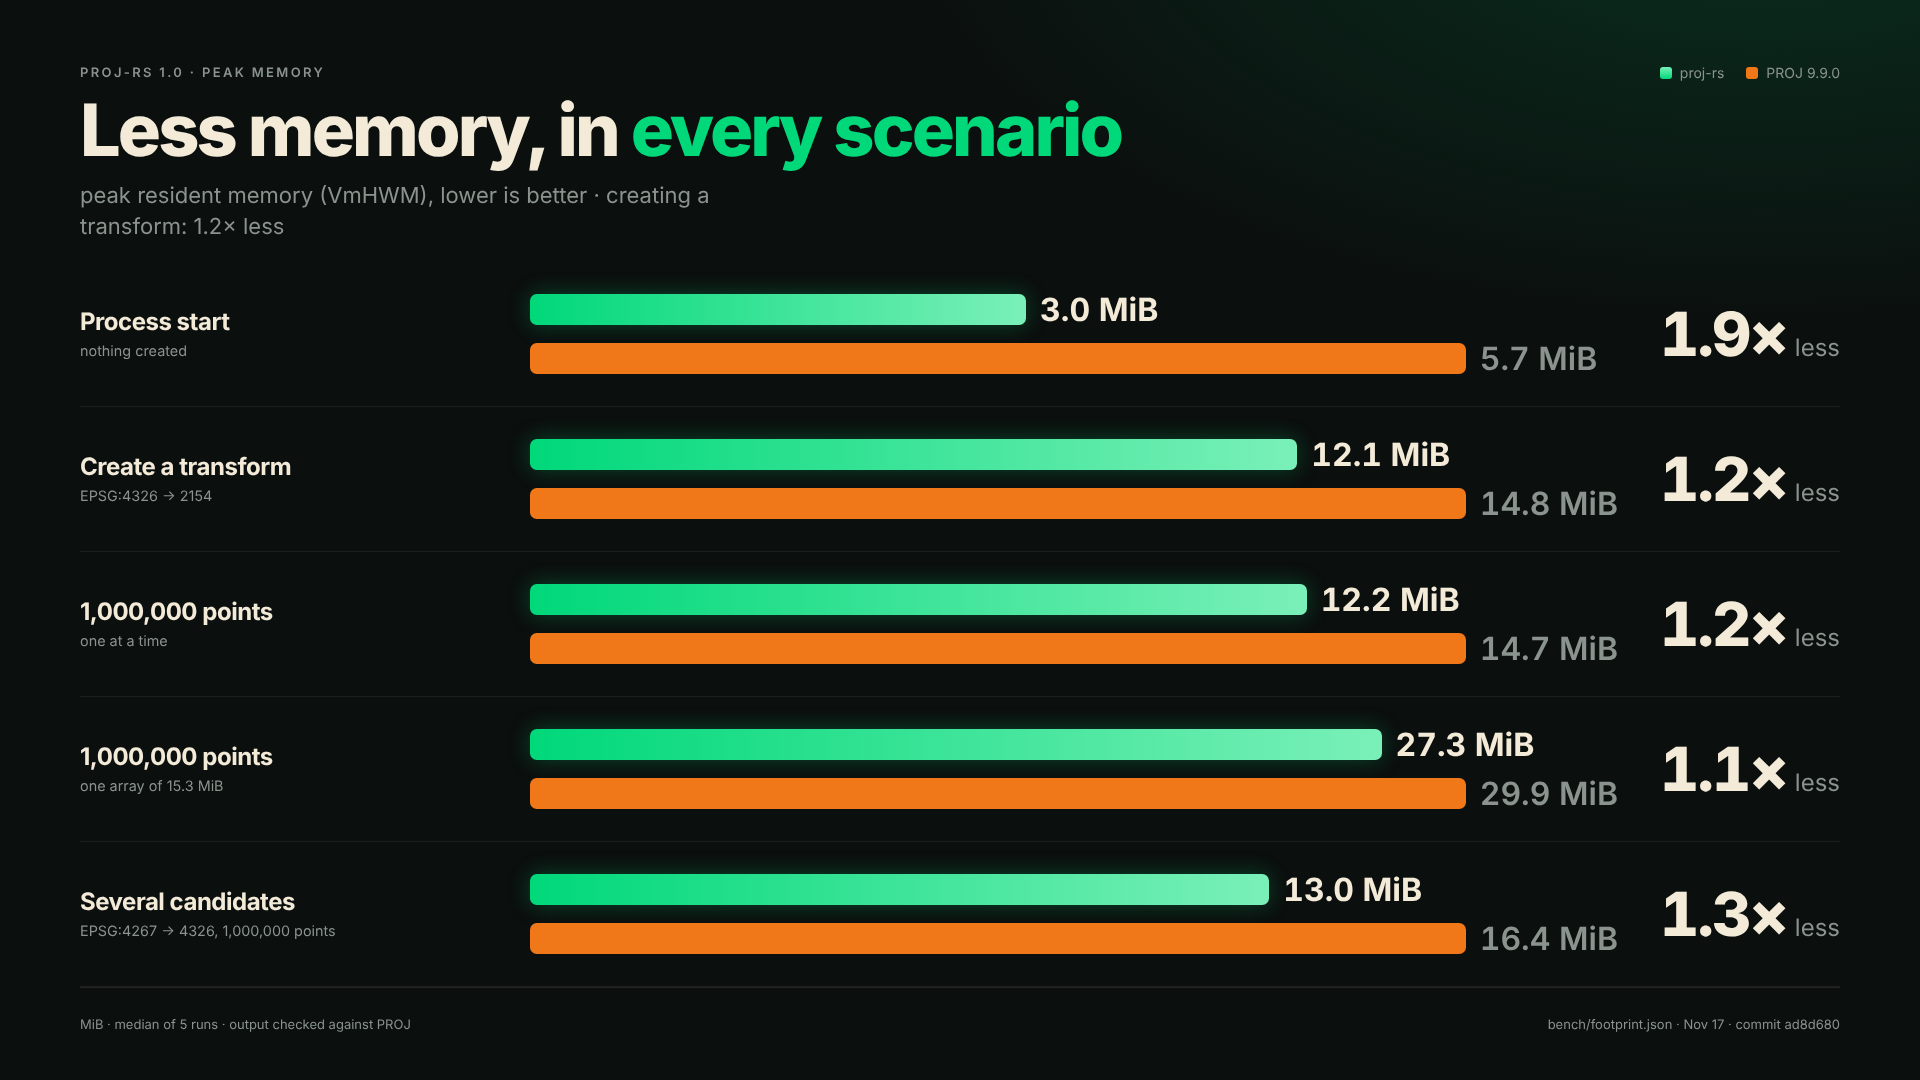
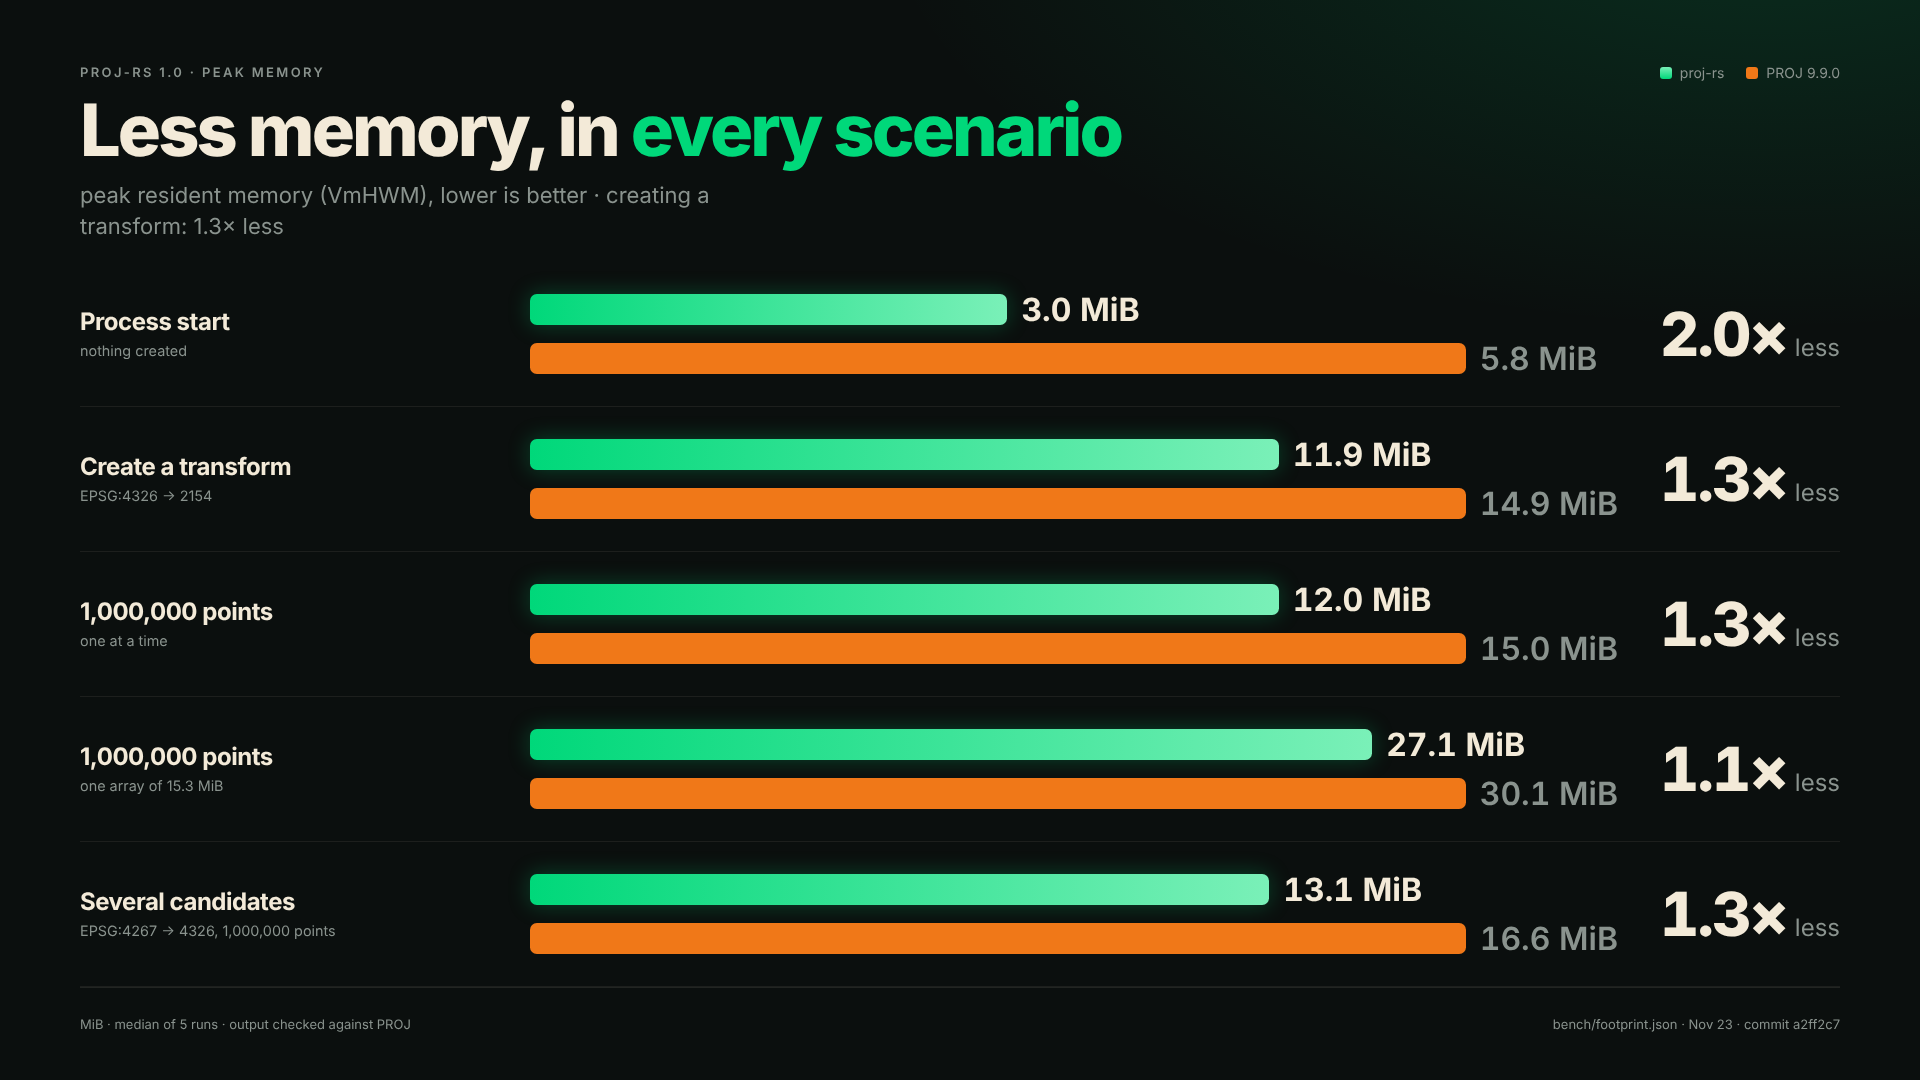
Poids et mémoire refaits sur la CI, README à jour (#354)
* Record the footprint on the CI machine

A temporary workflow runs bench/footprint.sh on the x86-64 runner,
against a PROJ 9.9.0 built from source with and without TIFF and curl.

Claude-Session: https://claude.ai/code/session_01LYZwxdLVPXbapv3k1uWGvy

* Refresh size and memory from the CI machine

bench/footprint.sh ran on the x86-64 runner against a PROJ 9.9.0 built
from source, with and without TIFF and curl. The Rust program is 16.8 MiB
against 18.6 MiB (PROJ as built for the speed bench) and 37.9 MiB (with
TIFF and curl); creating the transform peaks at 11.9 MiB against 14.9 MiB.
The file carries the commit of the code it measured, a2ff2c7. The
temporary workflow is removed.

Claude-Session: https://claude.ai/code/session_01LYZwxdLVPXbapv3k1uWGvy

---------

diff --git a/bench/cards/memory.html b/bench/cards/memory.html
@@ -228,7 +228,7 @@ html.export #card {
       <div>
         <p class="eyebrow">PROJ-RS 1.0 · PEAK MEMORY</p>
         <h1 class="title">Less memory, in <span class="accent">every scenario</span></h1>
-        <p class="subtitle">peak resident memory (VmHWM), lower is better · creating a transform: 1.2× less</p>
+        <p class="subtitle">peak resident memory (VmHWM), lower is better · creating a transform: 1.3× less</p>
       </div>
       <div class="legend">
         <span><i class="sw-accent"></i>proj-rs</span>
@@ -243,10 +243,10 @@ html.export #card {
           <div class="caption">nothing created</div>
         </div>
         <div class="stack">
-          <div class="lane"><span class="bar accent" style="width: 53%"></span><span class="val">3.0 MiB</span></div>
-          <div class="lane rival"><span class="bar rival" style="width: 100%"></span><span class="val">5.7 MiB</span></div>
+          <div class="lane"><span class="bar accent" style="width: 51%"></span><span class="val">3.0 MiB</span></div>
+          <div class="lane rival"><span class="bar rival" style="width: 100%"></span><span class="val">5.8 MiB</span></div>
         </div>
-        <div class="speed"><b>1.9×</b><span>less</span></div>
+        <div class="speed"><b>2.0×</b><span>less</span></div>
       </div>
       <div class="row" data-slot="r2">
         <div>
@@ -254,10 +254,10 @@ html.export #card {
           <div class="caption">EPSG:4326 → 2154</div>
         </div>
         <div class="stack">
-          <div class="lane"><span class="bar accent" style="width: 82%"></span><span class="val">12.1 MiB</span></div>
-          <div class="lane rival"><span class="bar rival" style="width: 100%"></span><span class="val">14.8 MiB</span></div>
+          <div class="lane"><span class="bar accent" style="width: 80%"></span><span class="val">11.9 MiB</span></div>
+          <div class="lane rival"><span class="bar rival" style="width: 100%"></span><span class="val">14.9 MiB</span></div>
         </div>
-        <div class="speed"><b>1.2×</b><span>less</span></div>
+        <div class="speed"><b>1.3×</b><span>less</span></div>
       </div>
       <div class="row" data-slot="r3">
         <div>
@@ -265,10 +265,10 @@ html.export #card {
           <div class="caption">one at a time</div>
         </div>
         <div class="stack">
-          <div class="lane"><span class="bar accent" style="width: 83%"></span><span class="val">12.2 MiB</span></div>
-          <div class="lane rival"><span class="bar rival" style="width: 100%"></span><span class="val">14.7 MiB</span></div>
+          <div class="lane"><span class="bar accent" style="width: 80%"></span><span class="val">12.0 MiB</span></div>
+          <div class="lane rival"><span class="bar rival" style="width: 100%"></span><span class="val">15.0 MiB</span></div>
         </div>
-        <div class="speed"><b>1.2×</b><span>less</span></div>
+        <div class="speed"><b>1.3×</b><span>less</span></div>
       </div>
       <div class="row" data-slot="r4">
         <div>
@@ -276,8 +276,8 @@ html.export #card {
           <div class="caption">one array of 15.3 MiB</div>
         </div>
         <div class="stack">
-          <div class="lane"><span class="bar accent" style="width: 91%"></span><span class="val">27.3 MiB</span></div>
-          <div class="lane rival"><span class="bar rival" style="width: 100%"></span><span class="val">29.9 MiB</span></div>
+          <div class="lane"><span class="bar accent" style="width: 90%"></span><span class="val">27.1 MiB</span></div>
+          <div class="lane rival"><span class="bar rival" style="width: 100%"></span><span class="val">30.1 MiB</span></div>
         </div>
         <div class="speed"><b>1.1×</b><span>less</span></div>
       </div>
@@ -287,8 +287,8 @@ html.export #card {
           <div class="caption">EPSG:4267 → 4326, 1,000,000 points</div>
         </div>
         <div class="stack">
-          <div class="lane"><span class="bar accent" style="width: 79%"></span><span class="val">13.0 MiB</span></div>
-          <div class="lane rival"><span class="bar rival" style="width: 100%"></span><span class="val">16.4 MiB</span></div>
+          <div class="lane"><span class="bar accent" style="width: 79%"></span><span class="val">13.1 MiB</span></div>
+          <div class="lane rival"><span class="bar rival" style="width: 100%"></span><span class="val">16.6 MiB</span></div>
         </div>
         <div class="speed"><b>1.3×</b><span>less</span></div>
       </div>
@@ -329,7 +329,7 @@ html.export #card {
 
     <footer class="footer">
       <span>MiB · median of 5 runs · output checked against PROJ</span>
-      <span>bench/footprint.json · Nov 17 · commit ad8d680</span>
+      <span>bench/footprint.json · Nov 23 · commit a2ff2c7</span>
     </footer>
   </article>
 </body>

diff --git a/bench/cards/size.html b/bench/cards/size.html
@@ -3,7 +3,7 @@
 <head>
   <meta charset="utf-8">
   <meta name="viewport" content="width=device-width, initial-scale=1">
-  <title>17.1 MiB</title>
+  <title>16.8 MiB</title>
   <style>
 /* Default palette — keep hex in sync with scripts/derive-palette.mjs */
 :root {
@@ -223,10 +223,10 @@ html.export #card {
   <article id="card">
     <p class="eyebrow">PROJ-RS 1.0 · SIZE ON DISK</p>
     <div class="hero-row">
-      <div class="hero-num">17.1<span class="unit">MiB</span></div>
+      <div class="hero-num">16.8<span class="unit">MiB</span></div>
       <div class="hero-copy">
         <p class="hero-sentence">for a program that converts EPSG:4326 to 2154, proj.db included.</p>
-        <p class="hero-detail">No library to install beside the C library. PROJ 9.9.0 needs 18.6 MiB built minimal, 37.9 MiB with TIFF and curl. With the network feature, proj-rs is 22.9 MiB.</p>
+        <p class="hero-detail">No library to install beside the C library. PROJ 9.9.0 needs 18.6 MiB built minimal, 37.9 MiB with TIFF and curl. With the network feature, proj-rs is 22.6 MiB.</p>
         <div class="series">
           <div class="series-row" data-slot="s1">
             <div class="series-label">PROJ 9.9.0, TIFF and curl</div>
@@ -240,15 +240,15 @@ html.export #card {
           </div>
           <div class="series-row is-accent" data-slot="s3">
             <div class="series-label">proj-rs</div>
-            <div class="track"><span class="bar accent" style="width: 45%"></span></div>
-            <div class="series-value">17.1 MiB</div>
+            <div class="track"><span class="bar accent" style="width: 44%"></span></div>
+            <div class="series-value">16.8 MiB</div>
           </div>
         </div>
       </div>
     </div>
     <footer class="footer">
       <span>Bars are to scale · lower is better · stripped, shared libraries counted</span>
-      <span>bench/footprint.json · Nov 17 · commit ad8d680</span>
+      <span>bench/footprint.json · Nov 23 · commit a2ff2c7</span>
     </footer>
   </article>
 </body>

diff --git a/README.md b/README.md
@@ -151,24 +151,24 @@ The same conversion, EPSG:4326 to EPSG:2154, measured on the same machine (Linux
 
 <img src="bench/cards/memory.png" alt="Peak resident memory of five scenarios, proj-rs next to PROJ 9.9.0" width="100%">
 
-On disk, a Rust program with proj-rs is 17.1 MiB with `proj.db` included (10.1 MiB of it) and no library other than the C library: 1.1× smaller than a C program with PROJ 9.9.0 built as in the speed comparison (18.6 MiB), and 2.2× smaller than one with a PROJ built with TIFF and curl (37.9 MiB). With the `network` feature (the HTTPS grid download, TLS from the system) the program is 22.9 MiB, of which 5.7 MiB is OpenSSL: 1.7× smaller than the PROJ with curl. The code of proj-rs alone, `proj.db` left out, is 7.0 MiB; an empty Rust program is 0.3 MiB.
+On disk, a Rust program with proj-rs is 16.8 MiB with `proj.db` included (10.1 MiB of it) and no library other than the C library: 1.1× smaller than a C program with PROJ 9.9.0 built as in the speed comparison (18.6 MiB), and 2.3× smaller than one with a PROJ built with TIFF and curl (37.9 MiB). With the `network` feature (the HTTPS grid download, TLS from the system) the program is 22.6 MiB, of which 5.7 MiB is OpenSSL: 1.7× smaller than the PROJ with curl. The code of proj-rs alone, `proj.db` left out, is 6.7 MiB; an empty Rust program is 0.3 MiB.
 
-In memory, creating the transform peaks at 12.1 MiB for proj-rs and 14.8 MiB for PROJ (1.2× less memory). With a million points one at a time it is 12.2 MiB and 14.7 MiB; as one array, 27.3 MiB and 29.9 MiB, the array of points itself being 15.3 MiB; with several candidate operations (EPSG:4267 to 4326), 13.0 MiB and 16.4 MiB.
+In memory, creating the transform peaks at 11.9 MiB for proj-rs and 14.9 MiB for PROJ (1.3× less memory). With a million points one at a time it is 12.0 MiB and 15.0 MiB; as one array, 27.1 MiB and 30.1 MiB, the array of points itself being 15.3 MiB; with several candidate operations (EPSG:4267 to 4326), 13.1 MiB and 16.6 MiB.
 
 <details>
 <summary><b>Size and memory, component by component</b></summary>
 
 <br>
 
-Size on disk, after `strip --strip-unneeded`. A program is counted with every shared library `ldd` lists for it, except the C library and the unwinder (libc, libm, libdl, libpthread, librt, libutil, libgcc_s), on both sides. Nov 17 17:59 UTC, commit `ad8d680`.
+Size on disk, after `strip --strip-unneeded`. A program is counted with every shared library `ldd` lists for it, except the C library and the unwinder (libc, libm, libdl, libpthread, librt, libutil, libgcc_s), on both sides. Nov 23 09:18 UTC, commit `a2ff2c7`.
 
 | Install | Program and library | proj.db | Other shared libraries | of which OpenSSL | of which libcurl | Total, stripped | Total, as built |
 |---|---:|---:|---:|---:|---:|---:|---:|
 | PROJ 9.9.0, C program + libproj, TIFF and curl off | 4.7 MiB | 10.1 MiB | 3.9 MiB | none | none | **18.6 MiB** | 19.6 MiB |
 | PROJ 9.9.0, C program + libproj, TIFF and curl on | 4.7 MiB | 10.1 MiB | 23.1 MiB | 5.7 MiB | 0.7 MiB | **37.9 MiB** | 38.9 MiB |
-| proj-rs as libproj, same C program + libproj of capi/ | 8.3 MiB | 10.1 MiB | 0.0 MiB | none | none | **18.4 MiB** | 19.4 MiB |
-| proj-rs, Rust program, proj.db inside | 7.0 MiB | 10.1 MiB | 0.0 MiB | none | none | **17.1 MiB** | 17.9 MiB |
-| proj-rs, feature network, Rust program, HTTPS grid download | 7.1 MiB | 10.1 MiB | 5.7 MiB | 5.7 MiB | none | **22.9 MiB** | 23.7 MiB |
+| proj-rs as libproj, same C program + libproj of capi/ | 8.1 MiB | 10.1 MiB | 0.0 MiB | none | none | **18.2 MiB** | 19.2 MiB |
+| proj-rs, Rust program, proj.db inside | 6.7 MiB | 10.1 MiB | 0.0 MiB | none | none | **16.8 MiB** | 17.6 MiB |
+| proj-rs, feature network, Rust program, HTTPS grid download | 6.8 MiB | 10.1 MiB | 5.7 MiB | 5.7 MiB | none | **22.6 MiB** | 23.4 MiB |
 
 OpenSSL is `libssl` plus `libcrypto`, already inside the third column. proj-rs links it only with the `network` feature, for its HTTPS grid download, and takes it from the system (`native-tls`); PROJ pulls it through libcurl, when built with curl, together with the other libraries of curl (`libnghttp2`, `libssh`, `libgssapi_krb5`, `libldap`, `libgnutls` and more), which count in the third column but not in the libcurl column.
 
@@ -180,23 +180,23 @@ Shared libraries counted in the third column:
 - proj-rs, Rust program, proj.db inside: none.
 - proj-rs, feature network, Rust program, HTTPS grid download: `libssl.so.3`, `libcrypto.so.3`.
 
-The Rust program is 17.1 MiB stripped, of which 10.1 MiB is the embedded `proj.db`; the empty Rust program of the same toolchain is 0.3 MiB. The code of proj-rs thus adds 6.7 MiB, SQLite and the TIFF reader included.
+The Rust program is 16.8 MiB stripped, of which 10.1 MiB is the embedded `proj.db`; the empty Rust program of the same toolchain is 0.3 MiB. The code of proj-rs thus adds 6.4 MiB, SQLite and the TIFF reader included.
 
 | Peak resident memory | PROJ 9.9.0 | PROJ 9.9.0, TIFF and curl | proj-rs C library | proj-rs (Rust) |
 |---|---:|---:|---:|---:|
-| process start, nothing created | 5.7 MiB | 12.1 MiB | 2.5 MiB | 3.0 MiB |
-| create the 4326 → 2154 transform | 14.8 MiB | 21.2 MiB | 13.0 MiB | 12.1 MiB |
-| create + 1,000,000 points, one at a time | 14.7 MiB | 21.2 MiB | 13.0 MiB | 12.2 MiB |
-| create + 1,000,000 points, one array | 29.9 MiB | 36.4 MiB | 28.1 MiB | 27.3 MiB |
-| 4267 → 4326 (several candidates) + 1,000,000 points, one at a time | 16.4 MiB | 22.8 MiB | 13.9 MiB | 13.0 MiB |
+| process start, nothing created | 5.8 MiB | 12.3 MiB | 2.6 MiB | 3.0 MiB |
+| create the 4326 → 2154 transform | 14.9 MiB | 21.2 MiB | 12.9 MiB | 11.9 MiB |
+| create + 1,000,000 points, one at a time | 15.0 MiB | 21.4 MiB | 13.1 MiB | 12.0 MiB |
+| create + 1,000,000 points, one array | 30.1 MiB | 36.3 MiB | 28.1 MiB | 27.1 MiB |
+| 4267 → 4326 (several candidates) + 1,000,000 points, one at a time | 16.6 MiB | 22.9 MiB | 14.2 MiB | 13.1 MiB |
 
 | Peak heap (valgrind massif) | PROJ 9.9.0 | PROJ 9.9.0, TIFF and curl | proj-rs C library | proj-rs (Rust) |
 |---|---:|---:|---:|---:|
 | process start, nothing created | 0.1 MiB | 0.2 MiB | 0.0 MiB | 0.0 MiB |
 | create the 4326 → 2154 transform | 5.5 MiB | 5.6 MiB | 3.6 MiB | 3.6 MiB |
 | create + 1,000,000 points, one at a time | 5.5 MiB | 5.6 MiB | 3.6 MiB | 3.6 MiB |
-| create + 1,000,000 points, one array | 20.4 MiB | 20.5 MiB | 15.4 MiB | 15.5 MiB |
-| 4267 → 4326 (several candidates) + 1,000,000 points, one at a time | 6.7 MiB | 6.8 MiB | 4.2 MiB | 4.2 MiB |
+| create + 1,000,000 points, one array | 20.4 MiB | 20.5 MiB | 15.5 MiB | 15.5 MiB |
+| 4267 → 4326 (several candidates) + 1,000,000 points, one at a time | 6.7 MiB | 6.8 MiB | 4.3 MiB | 4.3 MiB |
 
 Median of 5 runs for the resident memory (`VmHWM`, read by the program itself); the heap is one massif run. Each process runs one scenario on the same 1,000,000 points, and its output is checked against PROJ's. Every process starts with its own loader and libraries, so the first row is the floor. What exactly is measured, and how to rerun it: [docs/BENCHMARK.md](docs/BENCHMARK.md).
 
